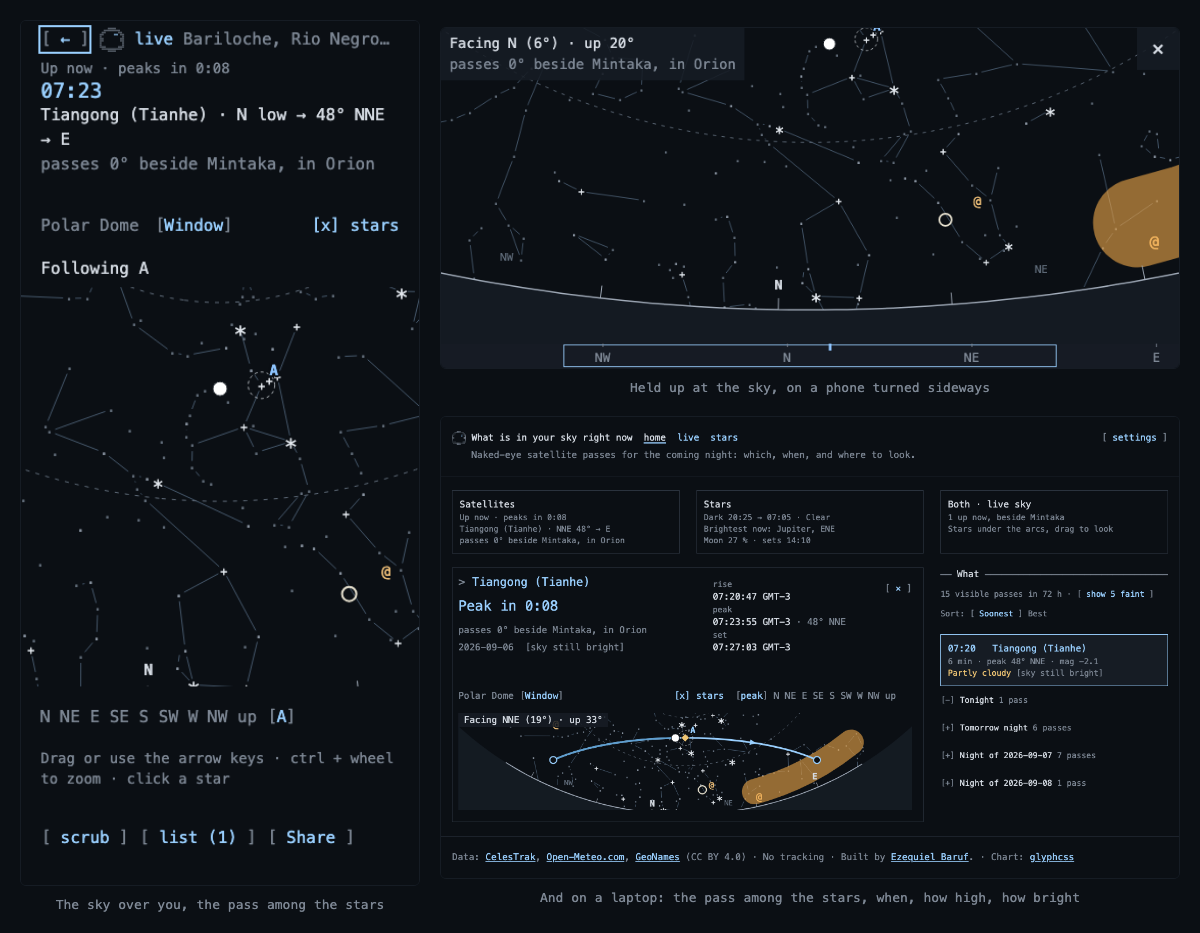
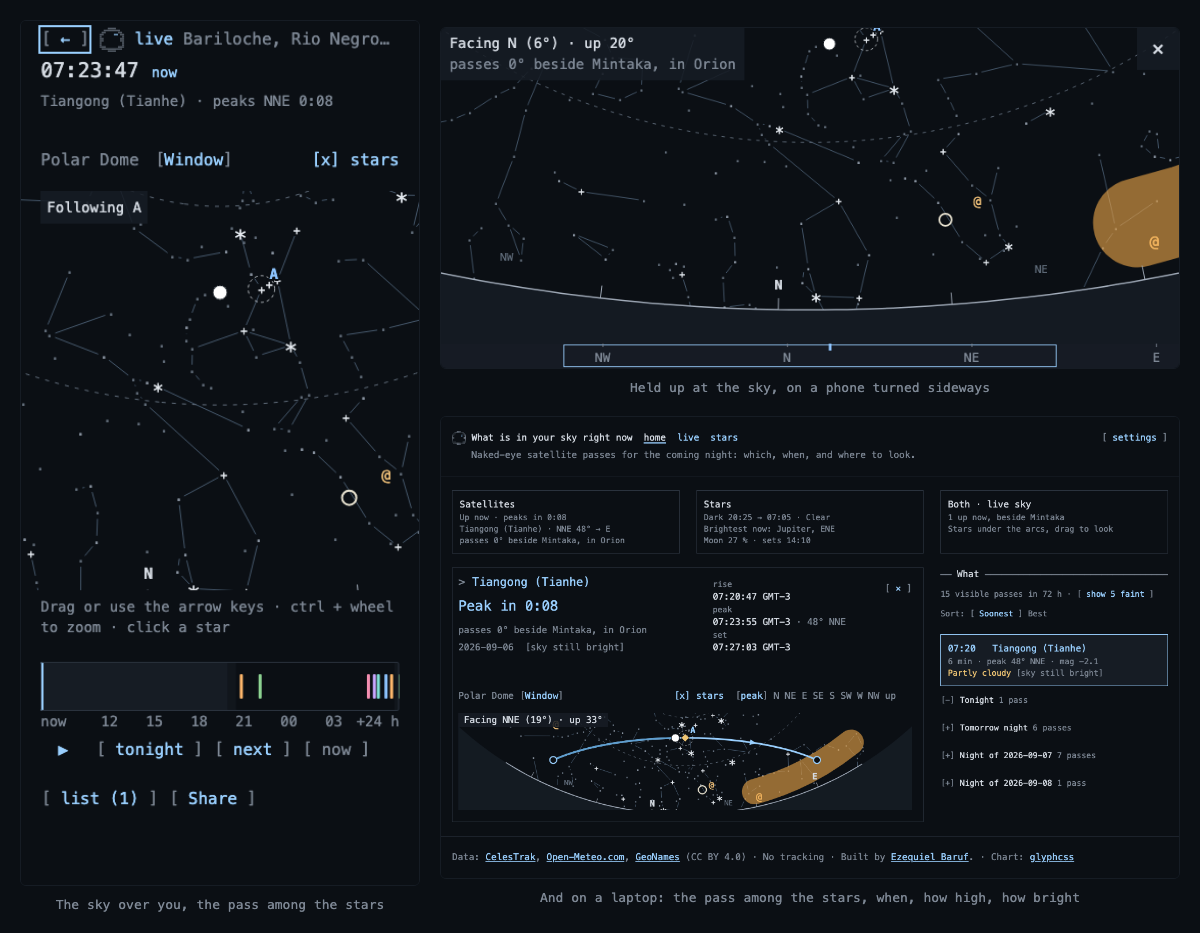
R145: the README hero and social preview re-drawn from the v2.7 phone live capture

diff --git a/scripts/readme-hero.ts b/scripts/readme-hero.ts
@@ -75,7 +75,8 @@ export const SOURCES = [
     // its two states (FR-WATCH-9 f). Watching is the right half of that split for a first
     // picture: it is the page as it opens, with no scrub block over the sky. R135 (FR-FLOW-14):
     // a phone opens on the window since v2.6, following the pass that is up, so the tile is the
-    // pass among the stars and no longer the braille dome; the caption says what it shows.
+    // pass among the stars and no longer the braille dome; the caption says what it shows. R145 (FR-TONIGHT-6):
+    // since v2.7 the tile also carries the shown time, the context line, the time track and the three taps.
     file: 'v1-live-watching-390-dark-en.png',
     caption: 'The sky over you, the pass among the stars',
     w: 390,
